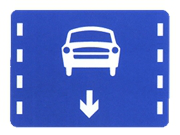
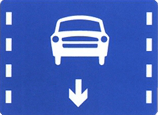
线性诱导添加左右

diff --git a/umap/static/lmd/marker/lmd.marker.data.js b/umap/static/lmd/marker/lmd.marker.data.js
@@ -336,9 +336,11 @@ lmd.marker[lmd.MARKER_ROAD]['childs'][1]['childs'].push({speed:'<80',size:'220*4
 temp = [
 	"指路36 线形诱导1组右",
 	"指路36 线形诱导1组左",
-	"指路37 线形诱导2组",
-	"指路37 线形诱导3组",
-	"指路37 线形诱导4组"
+	"指路37 线形诱导2组左",
+	"指路37 线形诱导3组左",
+	"指路37 线形诱导4组",
+	"指路37 线形诱导2组右",
+	"指路37 线形诱导3组右"
 ]
 for(var i = 0, len = temp.length; i < len; i++){
   lmd.marker[lmd.MARKER_ROAD]['childs'][1]['wife'].push(temp[i])
